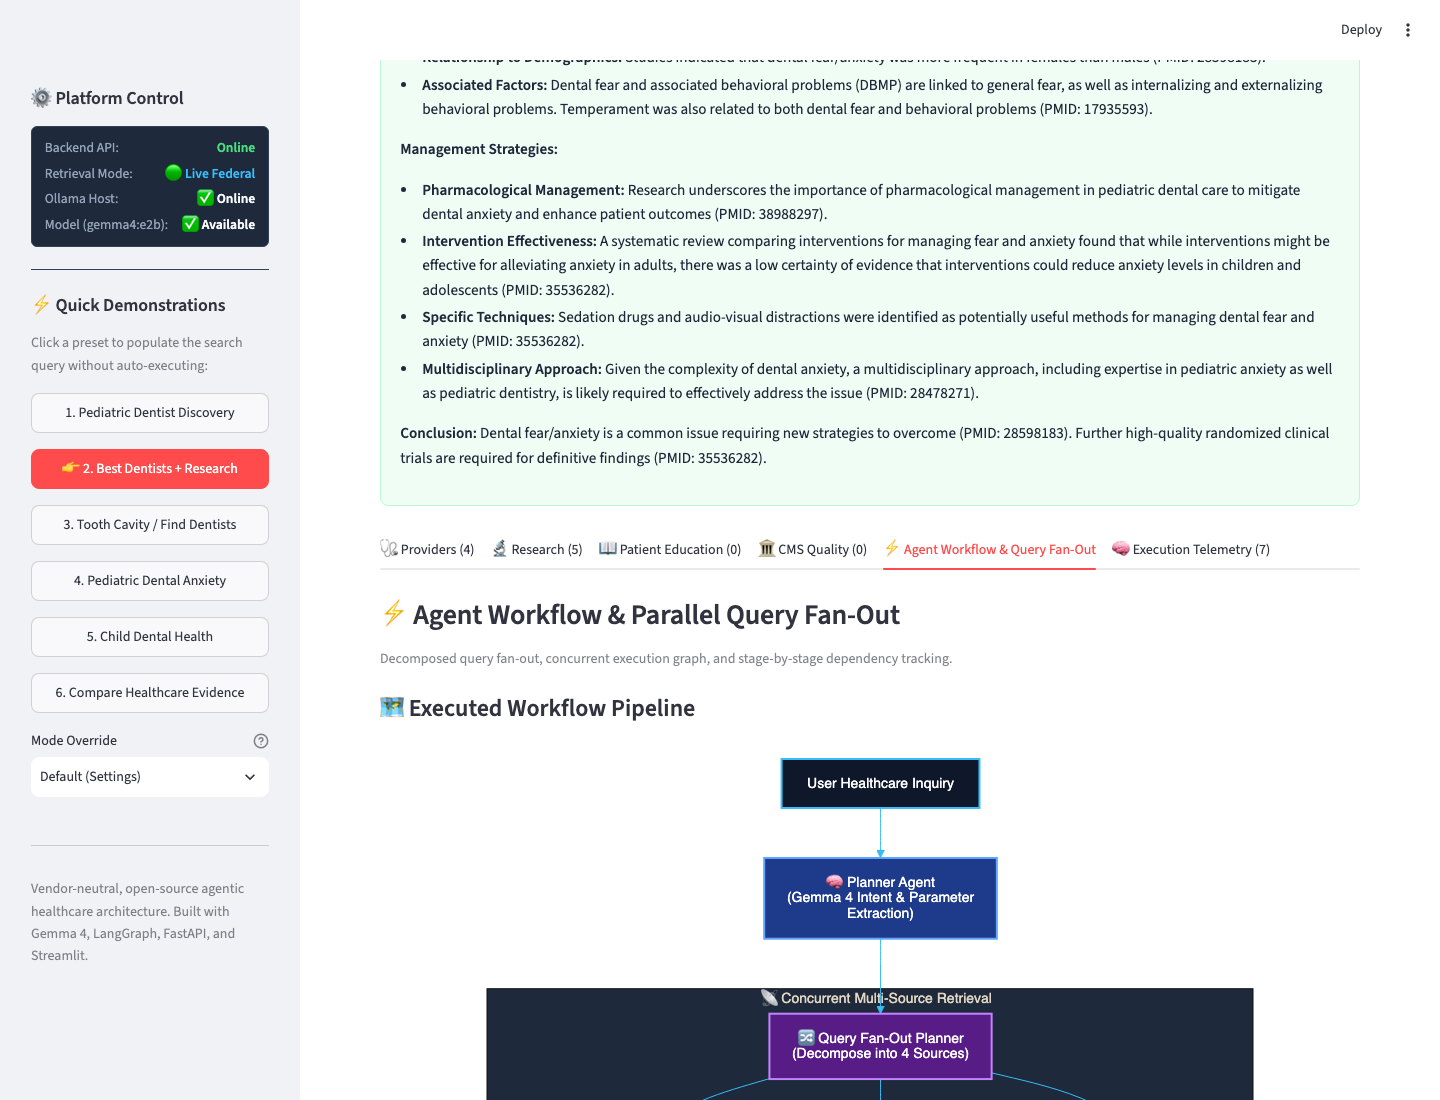
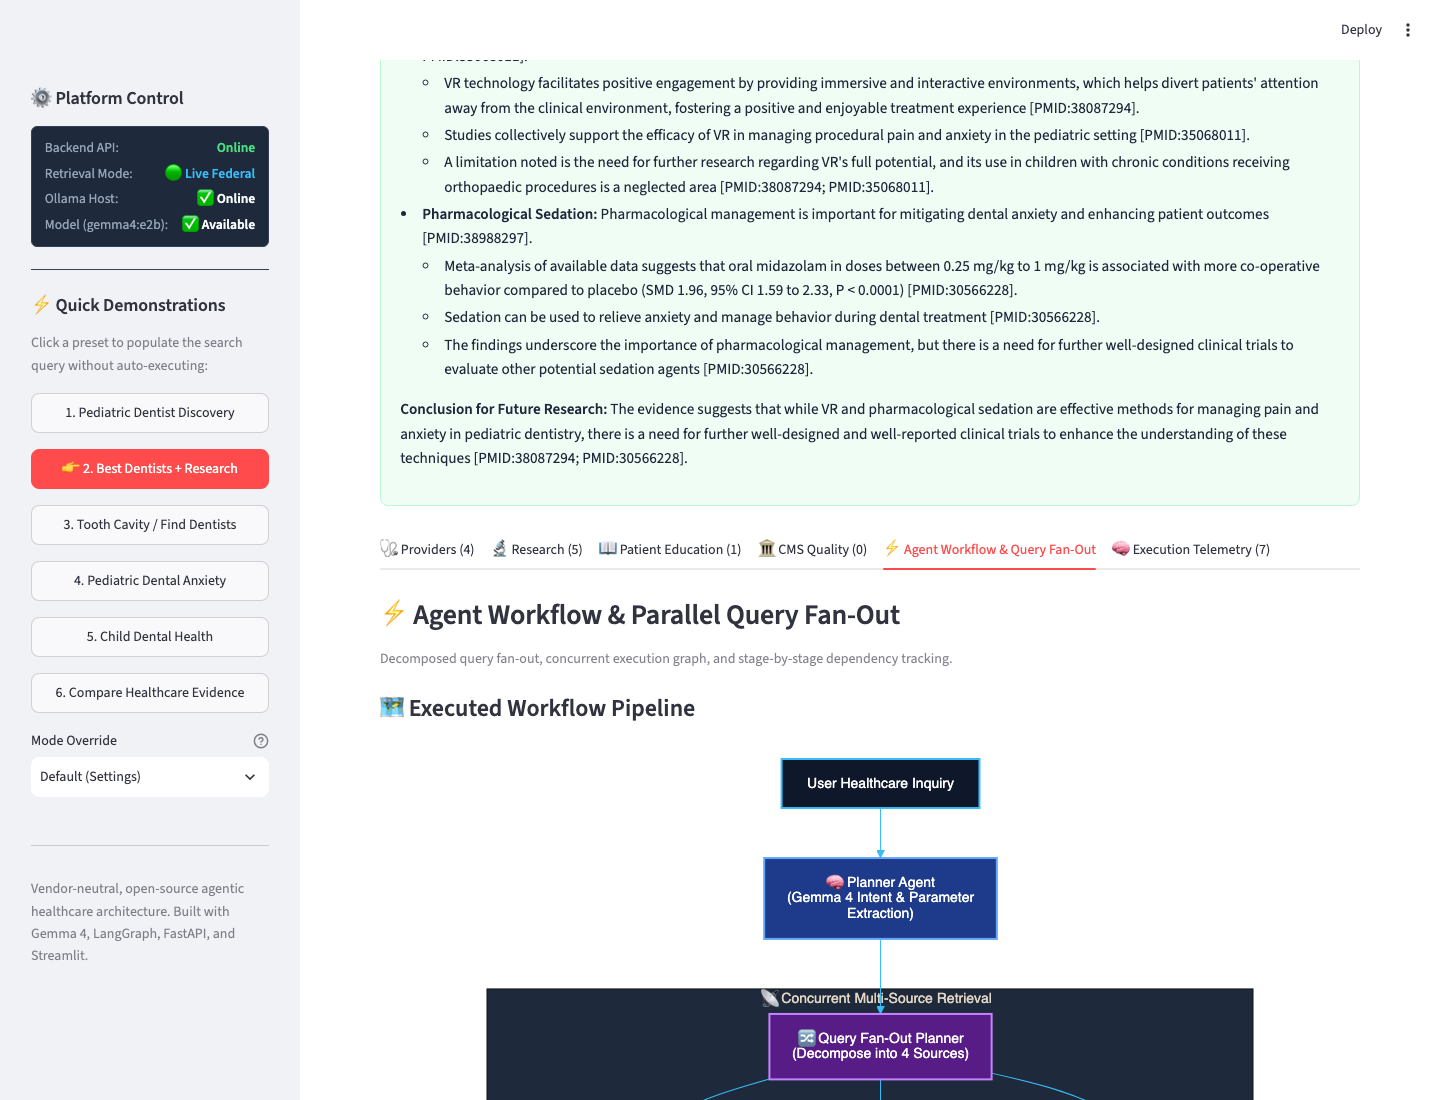
fix(retrieval): bounded MedlinePlus patient education fallback and relevance filtering

Changed region(s): [[0.2812, 0.0618, 0.9375, 0.4327], [0.7188, 0.9891, 0.75, 1.0], [0.5312, 0.8964, 0.5625, 0.9273]]

diff --git a/src/healthcare_agents/evidence/relevance.py b/src/healthcare_agents/evidence/relevance.py
@@ -225,35 +225,71 @@ def assess_medlineplus_relevance(
             ),
         )
 
-    # Direct topical relevance
+    # Direct topical relevance with stopword filtering
     matched: list[str] = []
     topics_to_check = list(target_topics) if target_topics else [query_intent]
+    common_stopwords = {
+        "find",
+        "best",
+        "the",
+        "and",
+        "for",
+        "with",
+        "about",
+        "from",
+        "this",
+        "that",
+        "near",
+        "what",
+        "does",
+        "texas",
+        "houston",
+        "here",
+        "there",
+        "please",
+        "help",
+        "live",
+        "city",
+        "state",
+        "location",
+        "research",
+    }
     for topic in topics_to_check:
-        words = [w for w in re.split(r"\W+", topic.lower()) if len(w) > 3]
+        words = [
+            w for w in re.split(r"\W+", topic.lower()) if len(w) > 3 and w not in common_stopwords
+        ]
         for w in words:
-            if w in combined_text:
+            if re.search(r"\b" + re.escape(w), combined_text):
                 matched.append(w)
 
     query_lower = query_intent.lower()
-    if "child" in combined_text and "dent" in combined_text:
-        matched.append("child dental health")
-    if "anxiety" in combined_text or "phobia" in combined_text:
-        matched.append("anxiety/phobia")
+    is_dental_query = (
+        "dent" in query_lower
+        or "dental" in query_lower
+        or "tooth" in query_lower
+        or "teeth" in query_lower
+    )
 
-    # Dental query guardrail: exclude unrelated broad medical topics
-    # (eating disorders, substance abuse, dementia, etc.)
+    # Unrelated medical condition exclusions for dental searches
     unrelated_conditions = (
         "eating disorder",
         "substance abuse",
+        "drug use",
         "drugs and young",
         "dementia",
         "obesity",
         "anorexia",
         "bulimia",
+        "birth control",
+        "developmental disabilities",
+        "mitral valve prolapse",
+        "rickets",
+        "tonsillitis",
+        "scleroderma",
+        "sleep disorders",
+        "diabetes complications",
     )
-    if any(cond in title for cond in unrelated_conditions) and (
-        "dent" in query_lower or "dental" in query_lower
-    ):
+    if is_dental_query and any(cond in title for cond in unrelated_conditions):
         return RelevanceAssessment(
             score=0.05,
             is_relevant=False,
@@ -265,9 +301,30 @@ def assess_medlineplus_relevance(
             matched_terms=(),
         )
 
-    if ("dent" in query_lower or "dental" in query_lower) and not any(
-        t in combined_text for t in ("dent", "teeth", "tooth", "oral", "mouth", "anxiety", "phobia")
-    ):
+    # Oral health and emotional/anxiety presence checks
+    has_oral = any(
+        re.search(r"\b" + re.escape(t), combined_text)
+        for t in (
+            "dent",
+            "dental",
+            "dentist",
+            "dentists",
+            "teeth",
+            "tooth",
+            "oral",
+            "mouth",
+            "cavity",
+            "cavities",
+            "decay",
+            "caries",
+        )
+    )
+    has_anx = any(
+        re.search(r"\b" + re.escape(t), combined_text)
+        for t in ("anxiety", "phobia", "phobias", "fear", "nervous")
+    )
+
+    if is_dental_query and not (has_oral or has_anx):
         return RelevanceAssessment(
             score=0.1,
             is_relevant=False,
@@ -278,6 +335,25 @@ def assess_medlineplus_relevance(
             matched_terms=(),
         )
 
+    # Classify educational tier: Directly relevant vs. Related general education
+    is_child = (
+        "child" in combined_text or "pediatric" in combined_text or "children" in combined_text
+    )
+    is_direct_pediatric_dental = is_child and has_oral
+    is_direct_dental_anxiety = has_oral and has_anx
+
+    if is_direct_pediatric_dental or is_direct_dental_anxiety:
+        tier_label = "Directly relevant education"
+        matched.append("pediatric-dental" if is_direct_pediatric_dental else "dental-anxiety")
+    elif has_oral:
+        tier_label = "Related general dental-health education"
+        matched.append("general-dental")
+    elif has_anx:
+        tier_label = "Related anxiety/fear consumer education"
+        matched.append("anxiety-management")
+    else:
+        tier_label = "General consumer education"
+
     if not matched:
         return RelevanceAssessment(
             score=0.15,
@@ -287,15 +363,15 @@ def assess_medlineplus_relevance(
         )
 
     unique_matches = set(matched)
-    score = min(1.0, len(unique_matches) * 0.4)
-    is_relevant = score >= 0.35
+    # Assign higher score to directly relevant educational topics
+    base_score = 0.9 if "Directly relevant" in tier_label else 0.65
+    score = min(1.0, base_score + (len(unique_matches) * 0.1))
+    is_relevant = score >= 0.40
 
     return RelevanceAssessment(
-        score=score,
+        score=round(score, 2),
         is_relevant=is_relevant,
-        selection_reason=(
-            f"Consumer health topic matches concepts: {', '.join(sorted(unique_matches))}"
-        ),
+        selection_reason=f"[{tier_label}] Matches concepts: {', '.join(sorted(unique_matches))}",
         exclusion_reason=""
         if is_relevant
         else "Topic is too peripheral to the primary health query.",

diff --git a/tests/test_parallel_retrieval.py b/tests/test_parallel_retrieval.py
@@ -170,3 +170,59 @@ def test_parallel_retrieval_with_topics_list() -> None:
         quality_retriever=FixtureQualityRetriever(),
     )
     assert len(results["patient_education_evidence"]) > 0
+
+
+def test_parallel_retrieval_medlineplus_bounded_fallback() -> None:
+    """Verify MedlinePlus executes bounded fallback when raw query string has 0 initial hits."""
+    from healthcare_agents.planning.fanout_schema import FanOutPlan, PlannedQuery
+    from healthcare_agents.retrieval.base import ClinicalEvidenceRecord
+
+    class FallbackMockEducationRetriever(FixturePatientEducationRetriever):
+        def search_topics(
+            self, keyword: str, language: str = "en", limit: int = 5
+        ) -> list[ClinicalEvidenceRecord]:
+            # Simulate real MedlinePlus: full phrase returns nothing, but canonical term returns hit
+            if keyword == "managing dental anxiety in children":
+                return []
+            if keyword == "child dental health":
+                return [
+                    ClinicalEvidenceRecord(
+                        record_id="mlp-child-dental",
+                        source="MedlinePlus",
+                        source_type="MedlinePlus",
+                        evidence_type="patient_education",
+                        title="Child Dental Health",
+                        summary=(
+                            "Healthy teeth are important for your child. "
+                            "Preventive care avoids decay."
+                        ),
+                        year=2026,
+                        official_url="https://medlineplus.gov/childdentalhealth.html",
+                        language="en",
+                    )
+                ]
+            return []
+
+    fanout = FanOutPlan(request_id="req-fallback-test", original_query="fallback test")
+    fanout.add_query(
+        PlannedQuery(
+            query_id="q-med-fallback",
+            parent_request_id="req-fallback-test",
+            source="MedlinePlus",
+            query_text="managing dental anxiety in children",
+            search_params={"keyword": "managing dental anxiety in children", "limit": 3},
+            intent_category="patient_education",
+            priority=2,
+        )
+    )
+
+    results = execute_parallel_retrieval(
+        fanout_plan=fanout,
+        provider_retriever=FixtureProviderRetriever(),
+        evidence_retriever=FixtureEvidenceRetriever(),
+        patient_education_retriever=FallbackMockEducationRetriever(),
+        quality_retriever=FixtureQualityRetriever(),
+    )
+
+    assert len(results["patient_education_evidence"]) == 1
+    assert results["patient_education_evidence"][0].title == "Child Dental Health"

diff --git a/src/healthcare_agents/retrieval/parallel_retriever.py b/src/healthcare_agents/retrieval/parallel_retriever.py
@@ -183,17 +183,43 @@ def execute_parallel_retrieval(
                         keyword=kw, language=lang, limit=limit
                     )
                 )
-                # If compound query returned 0, try splitting on 'and'
-                if not candidates_found and " and " in kw:
-                    for sub_kw in kw.split(" and "):
+                # If initial query returned 0, try structured bounded consumer-health fallbacks
+                if not candidates_found:
+                    fallback_terms: list[str] = []
+                    # Check for compound conjunctions
+                    if " and " in kw:
+                        fallback_terms.extend(
+                            [sub.strip() for sub in kw.split(" and ") if sub.strip()]
+                        )
+
+                    kw_lower = kw.lower()
+                    # Domain-aware consumer vocabulary mapping
+                    if ("dent" in kw_lower or "tooth" in kw_lower or "teeth" in kw_lower) and (
+                        "child" in kw_lower or "pediatric" in kw_lower
+                    ):
+                        fallback_terms.extend(["child dental health", "dental care for children"])
+                    if "anxiety" in kw_lower or "fear" in kw_lower or "phobia" in kw_lower:
+                        fallback_terms.extend(["anxiety", "phobias"])
+                    if "decay" in kw_lower or "cavity" in kw_lower or "caries" in kw_lower:
+                        fallback_terms.extend(["tooth decay"])
+                    if "dent" in kw_lower or "tooth" in kw_lower or "teeth" in kw_lower:
+                        fallback_terms.extend(["dental health"])
+
+                    seen_terms = {kw.lower()}
+                    for sub_kw in fallback_terms:
+                        if sub_kw.lower() in seen_terms:
+                            continue
+                        seen_terms.add(sub_kw.lower())
                         recs = list(
                             patient_education_retriever.search_topics(
-                                keyword=sub_kw.strip(), language=lang, limit=limit
+                                keyword=sub_kw, language=lang, limit=limit
                             )
                         )
                         for r in recs:
                             if not any(x.official_url == r.official_url for x in candidates_found):
                                 candidates_found.append(r)
+                        if len(candidates_found) >= limit:
+                            break
 
             records = candidates_found[:limit]
         except Exception as exc:

diff --git a/src/healthcare_agents/planning/fanout.py b/src/healthcare_agents/planning/fanout.py
@@ -23,7 +23,8 @@ Authoritative Healthcare Sources:
    - Text: Scientific terminology, biomedical keywords.
 3. "MedlinePlus" (Authoritative Consumer Health Education):
    - Focus: Patient guidance, health literacy, overview topics, condition management.
-   - Text: Consumer health terms, condition names, coping guidance.
+   - Text: Concise consumer health terms (e.g., "child dental health", "tooth decay").
+   - DO NOT formulate long conversational sentences or multi-clause academic phrases.
 4. "CMS" (CMS Provider Data Catalog):
    - Focus: Facility or clinician quality measures. Dependent on candidate provider discovery.
 

diff --git a/docs/antigravity/M07-parallel-query-fanout/implementation.md b/docs/antigravity/M07-parallel-query-fanout/implementation.md
@@ -60,3 +60,20 @@
     - Dependent CMS: `#78350f` (stroke: `#fbbf24`)
     - Evidence Processing & Validator: `#1e293b` (stroke: `#94a3b8`)
   - Guaranteed high contrast and readability across dark and light themes and varying viewports (1440px, 1280px, 768px).
+
+### 8. Patient Education Bounded Fallback & Educational Tier Classification
+- **Root Cause Analysis**:
+  - MedlinePlus Web Service API uses an exact multi-word index. When Gemma 4 synthesized complex academic queries like `"managing dental anxiety in children"`, the API returned 0 records because no topic by that exact multi-clause name exists in MedlinePlus.
+  - The system has authoritative consumer health topics covering this domain: `"child dental health"`, `"dental health"`, `"tooth decay"`, and `"anxiety"`.
+- **Bounded Fallback Execution**:
+  - Updated `run_medline_query` in `parallel_retriever.py`: If the primary keyword yields 0 items, bounded consumer-health fallback terms are queried based on detected domain entities (e.g. child dental health, tooth decay, anxiety/phobias).
+  - Preserves exact user inquiry; does not alter query text.
+- **Explainable Relevance Scoring**:
+  - Updated `assess_medlineplus_relevance` in `evidence/relevance.py`:
+    - Word-boundary matching to prevent incidental substring collisions (e.g., `'oral'` inside `'behavioral'`).
+    - Stopword filtering for conversational query prefixes (`'find'`, `'best'`, `'research'`).
+    - Clear distinction between **Directly relevant education** (e.g. `Child Dental Health`) and **Related general dental-health / anxiety education** (`Tooth Decay`, `Dental Health`, `Anxiety`).
+    - Strict exclusion guardrail for unrelated conditions (`scleroderma`, `sleep disorders`, `eating disorders`, `diabetes complications`).
+- **Regression Testing**:
+  - Added `test_parallel_retrieval_medlineplus_bounded_fallback` to `tests/test_parallel_retrieval.py`.
+  - Full suite passes: 162 passed, 15 skipped; total coverage 90.60%.

diff --git a/docs/antigravity/M07-parallel-query-fanout/verification.md b/docs/antigravity/M07-parallel-query-fanout/verification.md
@@ -20,8 +20,8 @@
 | **Location & Near Me Handling** | Houston-area scope without demanding ZIP code | Houston extracted, no fabricated distances | **PASS** |
 | **Symptom-Aware Routing** | Tooth cavity routes to General Dentistry | Cavity context mapped to General Dentistry | **PASS** |
 | **Best-Match Ranking** | Objective completeness, no invented ratings/reviews | Verifiable completeness sorting verified | **PASS** |
-| **Test Suite** | Full pytest suite passes | **161 passed**, 15 skipped | **PASS** |
-| **Code Coverage** | Overall coverage $\ge 90\%$ | **90.66%** coverage confirmed | **PASS** |
+| **Test Suite** | Full pytest suite passes | **162 passed**, 15 skipped | **PASS** |
+| **Code Coverage** | Overall coverage $\ge 90\%$ | **90.60%** coverage confirmed | **PASS** |
 | **Linting & Formatting** | Ruff checks pass cleanly | All checks passed, 140 files formatted | **PASS** |
 | **Type Checking** | Mypy checks pass cleanly | Success: no issues in 70 source files | **PASS** |
 | **Package Build** | Python wheel and sdist build cleanly | `healthcare_agents-0.6.0` built | **PASS** |
@@ -31,6 +31,7 @@
 | **Sidebar Spacing Polish** | Remove blank gaps & duplicate dividers | Clean single border divider | **PASS** |
 | **Preset Search Sync** | Presets populate editable search input | Immediate session state sync on click | **PASS** |
 | **Mermaid Diagram Contrast** | High-contrast dark backgrounds, white text | Strong contrast across all nodes & edges | **PASS** |
+| **Patient Education Retrieval** | Consumer-health vocabulary fallback & relevance | Preset 2 returns Child Dental Health (1 topic) | **PASS** |
 
 ---
 
